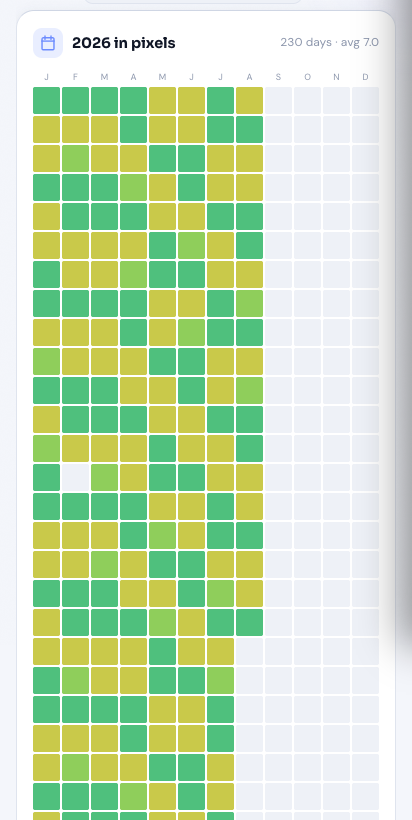
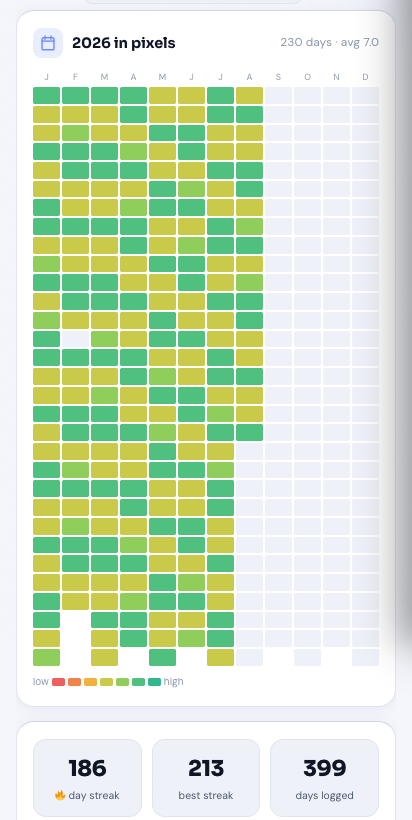
v123: year-in-pixels empty-state guard + tighter grid; refresh store screenshots

diff --git a/app.js b/app.js
@@ -5,7 +5,7 @@
 
 'use strict';
 
-const APP_VERSION = 'v122';   // shown in More ▸ About so you can confirm the build on each device
+const APP_VERSION = 'v123';   // shown in More ▸ About so you can confirm the build on each device
 
 /* Corruption-proof localStorage reads: one interrupted write (force-kill mid-save is a
    real Android failure mode) must degrade to defaults, never white-screen the boot. */
@@ -944,6 +944,13 @@ function yearPixelsHTML(year) {
     }
   }
   const avgM = logged ? (sum / logged).toFixed(1) : '–';
+  // a 372-cell empty grid is a bad first impression; wait until it has something to show
+  if (logged < 10) {
+    return `<div class="card yp-card">
+      <h2 class="h2-icon">${hicon('calendar')}<span>${y} in pixels</span></h2>
+      <div class="hint">Log ${10 - logged} more day${10 - logged === 1 ? '' : 's'} and your whole year appears here as one picture — every day a colour, from your mood.</div>
+    </div>`;
+  }
   return `<div class="card yp-card">
     <h2 class="h2-icon">${hicon('calendar')}<span>${y} in pixels</span>
       <span class="hint" style="margin-left:auto">${logged} days · avg ${avgM}</span></h2>

diff --git a/styles.css b/styles.css
@@ -1102,7 +1102,7 @@ svg.chart, .chart-bar, #graph-svg { max-width: 100%; display: block; }
 .yp-months { display: grid; grid-template-columns: repeat(12, 1fr); gap: 2px;
   font-size: 9px; color: var(--text-faint); text-align: center; margin-bottom: 3px; }
 .yp-grid { display: grid; grid-template-columns: repeat(12, 1fr); gap: 2px; }
-.yp, .yp-x { display: block; width: 100%; aspect-ratio: 1 / 1; border-radius: 2px;
+.yp, .yp-x { display: block; width: 100%; aspect-ratio: 1 / 0.62; border-radius: 2px;
   background: var(--bg-input); }
 .yp-x { background: transparent; }
 .yp-on { cursor: pointer; }

diff --git a/sw.js b/sw.js
@@ -1,7 +1,7 @@
 /* Daylog service worker
    Strategy: NETWORK-FIRST for the app's own files (so you ALWAYS get the latest
    when online), with cache fallback so it still works fully offline. */
-const CACHE = 'daily-pulse-v122';
+const CACHE = 'daily-pulse-v123';
 const ASSETS = [
   './', './index.html', './styles.css', './app.js',
   './workout-anims.js', './workout-plan.js',

diff --git a/LLM wiki from karpathy/log.md b/LLM wiki from karpathy/log.md
@@ -1,3 +1,48 @@
+## 2026-08-19 (evening) — v122/v123: reward widgets + a reusable screenshot pipeline
+
+Direction from Kishore: stop adding plain form widgets, add ones that "hit dopamine".
+The mood grid worked because it *rewards* the tap; these follow the same rule.
+
+**Shipped:**
+- **Today ring** — one dial at the top of the Log showing how complete the day is
+  (`todayCompletion()` counts visible core fields + habits + any written reflection;
+  a skipped habit counts as answered). Re-rendered on every `autosaveDraft()`, so the arc
+  visibly moves as you fill the form, and it buzzes + turns green the moment it closes.
+- **Year in Pixels** — 12x31 mosaic of the year coloured by mood (Daylio's most-shared
+  screen). Tap a pixel to open that day. Hidden behind a hint until 10 days are logged,
+  because a 372-cell empty grid is a terrible first impression.
+- **`buzz()`** haptics on habit tick/skip and ring completion, opt-out `dp.hapticsOff`.
+  Never fires on routine taps — only completions.
+- Shared **`MOOD_SCALE` / `moodColor()`** so every reward widget speaks one colour language.
+
+**Bug found and fixed:** `navigateTo('today')` force-resets `logDate` to today (app.js
+~line 5255). The Year-in-Pixels deep link used it and so silently opened *today* instead of
+the tapped day. The other deep links (calendar, history, search) all use `show('today')`.
+**Rule: deep-linking to a past day must use `show()`, never `navigateTo()`.**
+
+### New: a reusable store-screenshot pipeline
+`tools/shots.sh <outdir>` + `tools/seed-store-data.js` + `tools/crop.py`. Replaces the
+ad-hoc process that had to be redone by hand every release. Three traps it encodes:
+1. `browse screenshot` captures the **full page**, so `position:fixed` chrome (`.topbar`,
+   `#nav`) renders at its document offset rather than pinned. The script hides both, measures
+   the target element's offset, shoots, then crops to 412x820.
+2. **The seed must produce positive insights.** An earlier seed generated "Workout drags your
+   mood by 1.0" — arithmetically true, unusable as store copy. Mood now depends on workouts
+   *today and yesterday*, which is both realistic and makes the next-day insight read well.
+3. **Don't seed an unbroken 400-day streak** — it reads as fake. The seed leaves one gap
+   ~186 days back, which is one barely-visible grey pixel in the mosaic.
+
+Empty states also have to be seeded away: the first run showed "nothing synced yet" for
+screen time and "Nothing running" for the timeline, so the seed now fills `dp.health`,
+`dp.timelog` and `dp.pomohist` too.
+
+**Store assets:** 8 phone shots (412x820, ratio 1.990 — inside Play's 2:1 cap) reordered so
+the three most distinctive lead: today ring -> year in pixels -> insights. 3 tablet shots at
+1920x1200. Old set archived in `store/assets/.old-screenshots-v121/`.
+
+**Verified:** 55/55 unit tests, all 17 screens error-free, and on-device (POCO, MIUI, system
+dark mode ON) the ring, mood grid and year mosaic all render clean with no logcat errors.
+
 ## 2026-08-19 (later) — v121: the mood grid
 
 Shipped the top-ranked item from `competitors.md`: **How We Feel's Mood Meter**. A 4x4
